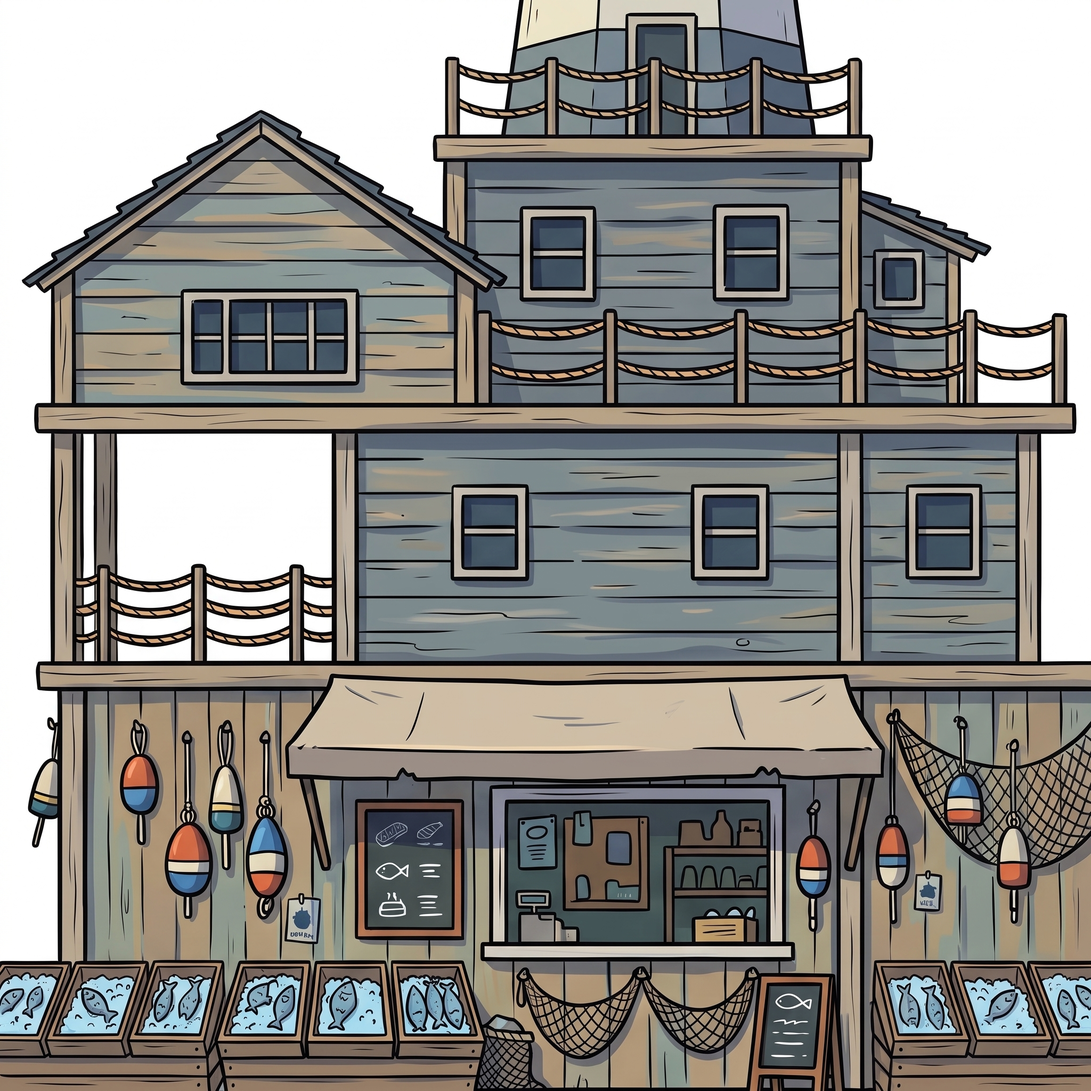
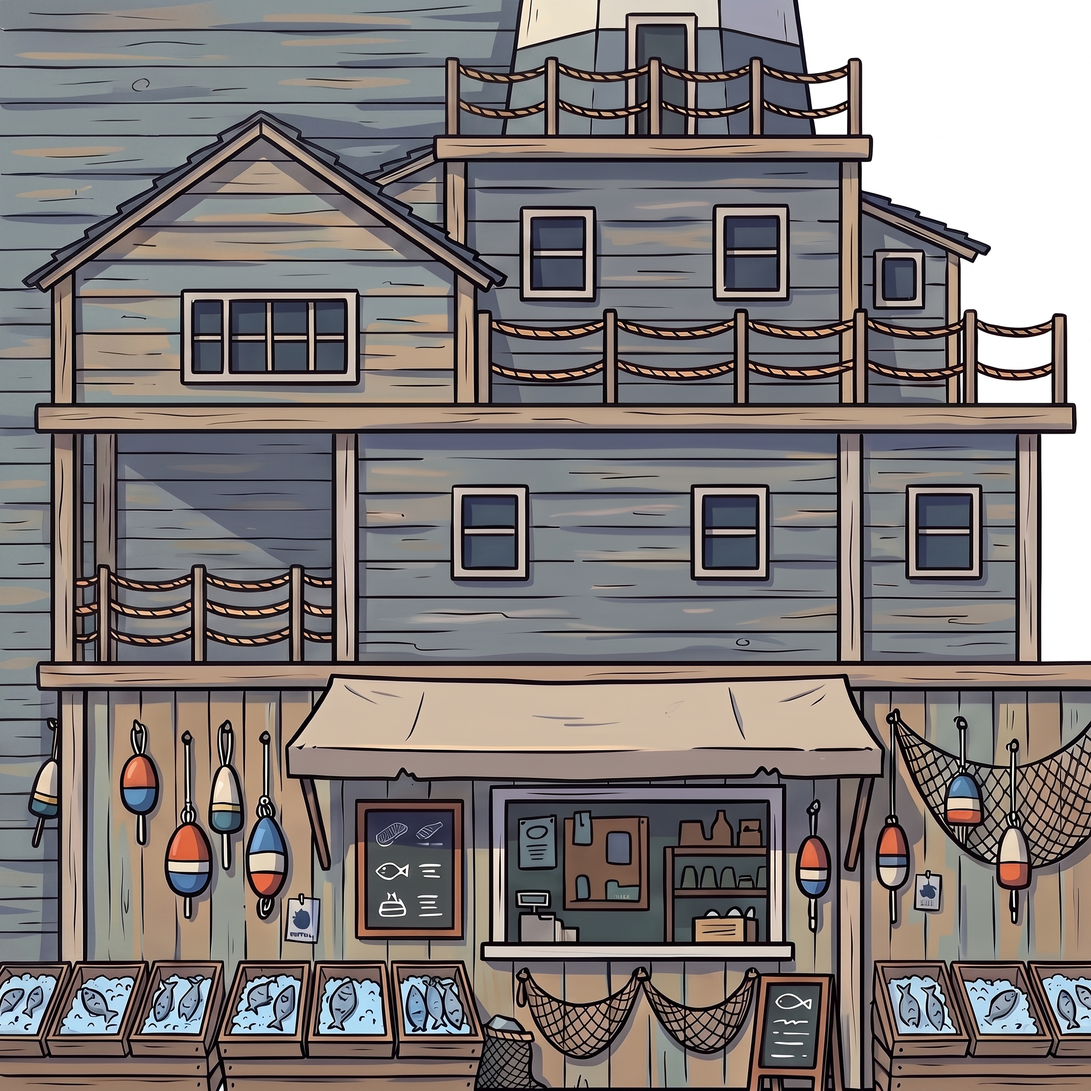
harborDocks: close facade white gaps, real skyline scale fix
facade_h2 had two areas of plain white background instead of finished
wall -- a large rectangular gap between the rope-railing balconies and
a smaller one at the top-left corner. Two targeted edit passes closed
both; the corner gap needed a dedicated second pass after the first
attempt missed it.

skyline_harbor got an atmospheric-depth pass (direct feedback: "I have
too much big details over there... I need more in the distance") --
the crane/ship/warehouse cluster now desaturates and hazes toward the
mountains instead of reading at uniform close-up detail, and the
readable "MV HARMONY" ship text is gone. Took two attempts: the first
used aspect_ratio 16:9 instead of matching the source's own panoramic
shape, which recomposed the scene onto a taller canvas and shifted the
painted content relative to what street.js's skyline plane expected --
visible in-game as a flat light-blue gap clipping in at the frame edge
(direct feedback, caught via screenshot). Second pass used aspect_ratio
"auto" instead, which fixed it.

Turned out that wasn't the whole story -- direct feedback again: "it's
the same on all of the levels... in extreme cases I can see the end of
it." SKYLINE_WIDTH is a single constant shared by every theme, not
something specific to harborDocks' art, and the existing margin (sized
"generously... with margin for camera x-sway") wasn't generous enough
at the game's actual extreme camera positions. Scaled it up 20% (520 ->
[…]

diff --git a/HalfShellHustle/src/data/envArt.js b/HalfShellHustle/src/data/envArt.js
@@ -332,7 +332,40 @@ export const THEMES = {
   // "different" is carried by palette and material language, not time of day.
   harborDocks: {
     street: envTexture('street_harbor.png', 1792, 2400),
-    skyline: envTexture('skyline_harbor.png', 2752, 1265),
+    // 2752x1265 -> 3136x1344 with the atmospheric-depth pass below -- dims
+    // here MUST track the actual file exactly or street.js's skyline plane
+    // (SKYLINE_WIDTH is a fixed world-unit constant, height derived from
+    // this aspect ratio) stretches/misscales and gaps open up at the frame
+    // edges. Learned the hard way: PASS 1 of this fix asked the edit call
+    // for a 16:9 aspect ratio (0.4597 -> 0.5581, h/w) instead of matching
+    // the original panoramic ~2.18:1 shape, which recomposed the scene onto
+    // a taller canvas and shifted where the painted content sat relative to
+    // what the street-level building geometry expected -- visible in-game
+    // as a flat light-blue gap clipping in at the top-left, direct feedback
+    // caught via screenshot. PASS 2 fixed it by passing aspect_ratio:
+    // "auto" instead (preserves the source's own shape) rather than trying
+    // to hand-pick a matching preset.
+    skyline: envTexture('skyline_harbor.png', 3136, 1344),
+    // ATMOSPHERIC DEPTH PASS (direct feedback): "I need to feel a little bit
+    // more in the distance. I have too much big details over there. It
+    // feels like I'm about to reach it." The crane/ship/warehouse cluster
+    // was rendered at uniform crisp linework and full saturation regardless
+    // of implied distance -- only the back mountain silhouette had real
+    // atmospheric perspective. Redone so the FOREGROUND (the two leftmost
+    // cranes, the dockside warehouses) stays crisp and saturated, while
+    // everything further back -- the ship, the rest of the crane row, the
+    // structures behind them -- desaturates and hazes toward the mountains'
+    // own blue-grey, same composition/content otherwise (same cranes, same
+    // ship, same lighthouse, same count of everything). Also dropped the
+    // "MV HARMONY" text painted on the ship's hull, a readable-text
+    // violation missed in the original pass. 3 candidates generated on the
+    // (correct, aspect-preserving) second pass -- one played the haze too
+    // safe (barely different from the original), another had a visible
+    // hard seam banding across the sky -- both rejected; this one nailed
+    // the depth grading with no artifacts. Originals archived: art/final/
+    // alt/skyline_harbor_v1_flat.png (pre-fix) and
+    // art/originals/harbordocks_skyline_atmospheric_depth.jpg (the
+    // wrong-aspect pass-1 output, kept for the record, never shipped).
     // SCALE FIX, PASS 2 (direct feedback, playtested twice): a first pass
     // shrank the small decorative marks (stencils, notes) but left the HERO
     // elements -- the roll-up door, all 7 portholes, the shopfront/chalkboard,
@@ -349,6 +382,15 @@ export const THEMES = {
     // (pass 1, still too big). Pass 2 used the PASS-1-ORIGINAL (v1) crops as
     // the edit reference, not the pass-1 output, per this project's own
     // established rule against referencing an already-edited derivative.
+    //
+    // GAP FILL, PASS 3, facade_h2 only (direct feedback): the pass-2 regen
+    // left two areas of plain white background showing through instead of
+    // finished wall -- a large rectangular gap between the two rope-railing
+    // balconies, and a smaller triangular one at the top-left corner behind
+    // the left gable. Two rounds of targeted edits (the rectangular gap
+    // closed on the first pass; the top-left corner needed a dedicated
+    // second pass after the first left it unfixed) -- pure completion, no
+    // other change. Archived: art/final/alt/facade_h2_v3_whitegaps.png.
     facades: [
       { tex: envTexture('facade_h1.png', 2048, 2048), bodyColor: 0x69746c }, // teal corrugated-metal cargo warehouse, roll-up door, portholes
       { tex: envTexture('facade_h2.png', 2048, 2048), bodyColor: 0x8b8884 }, // weathered clapboard harbor-master shack, lighthouse cupola, bait counter

diff --git a/HalfShellHustle/src/street/street.js b/HalfShellHustle/src/street/street.js
@@ -112,8 +112,16 @@ function layoutBuildingSlots(side, profile) {
 // (~-180) but inside camera.far, sized generously to fill the frame at that
 // distance for the given vertical FOV/aspect (with margin for camera x-sway
 // during lane changes) -- see main.js's CAMERA_FOV/ASPECT_W/H.
+//
+// 520 -> 624 (+20%), direct feedback: "in extreme cases, I can see the end
+// of it" -- happening identically on every theme (this constant isn't
+// per-theme), so the old margin just wasn't generous enough at the actual
+// extreme camera positions this game reaches, not an art/content problem on
+// any one theme's image. theme.skyline.aspect (envArt.js) derives the
+// height from this same width below, so scaling this one number scales the
+// whole backdrop uniformly, still centred on the same SKYLINE_Y/Z.
 const SKYLINE_Z = -195;
-const SKYLINE_WIDTH = 520;
+const SKYLINE_WIDTH = 624;
 const SKYLINE_Y = 60;
 
 // Builds a MeshBasicMaterial that tiles `texEntry` (an envArt.js entry, with
